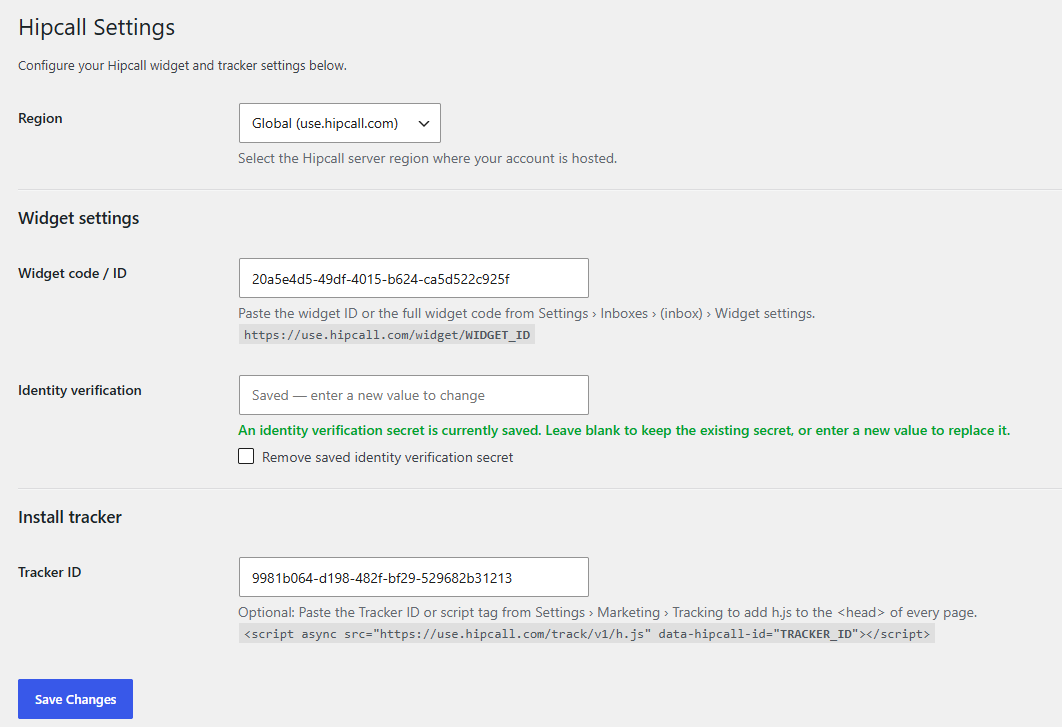
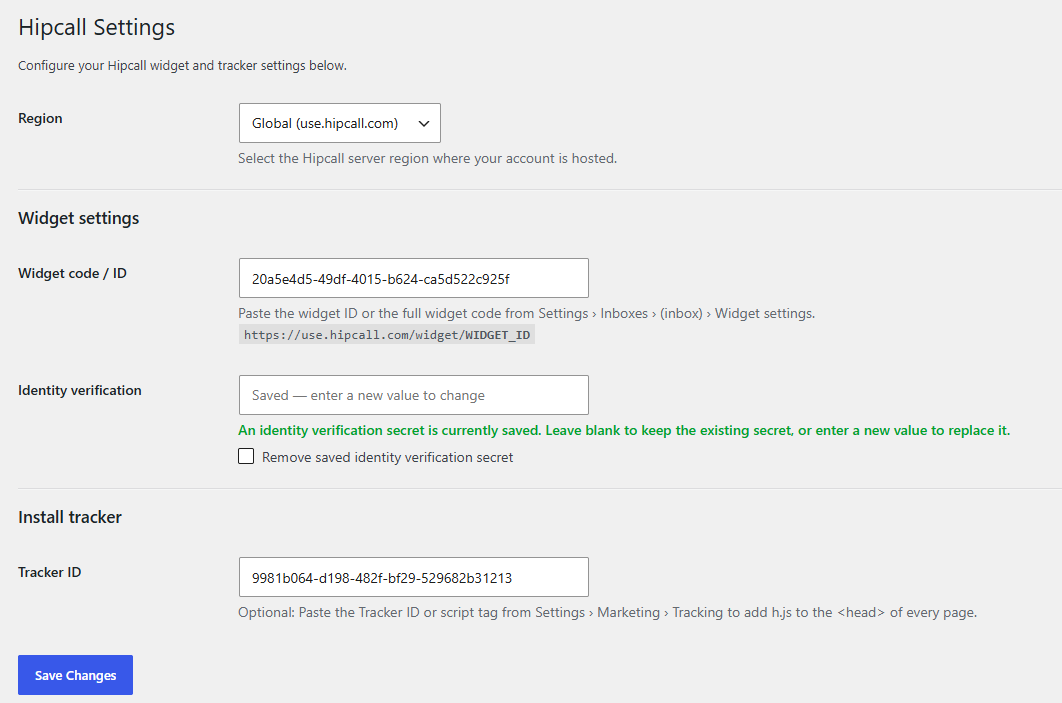
Remove region-specific tracker script example from settings page
The <script> example under Tracker ID showed the saved region's URL, so
it did not change when another region was selected in the form. The
example is removed; the field description already explains that the
Tracker ID or the full script tag can be pasted.

- Regression test for the settings page.
- screenshot-1.png updated to match.
- Changelog entry for 1.1.0.

Claude-Session: https://claude.ai/code/session_01X3ZTDhtrpEaJormxFtXAce

diff --git a/tests/phpunit/tests/settings/settingsPage.php b/tests/phpunit/tests/settings/settingsPage.php
@@ -45,6 +45,20 @@ class Tests_Settings_SettingsPage extends WP_UnitTestCase {
 	}
 
 	/**
+	 * The tracker <script> example did not follow the region selected in the form, so it was removed.
+	 *
+	 * @covers ::hipcall_settings_page_html
+	 */
+	public function test_settings_page_should_not_show_a_region_specific_tracker_snippet() {
+		wp_set_current_user( self::factory()->user->create( array( 'role' => 'administrator' ) ) );
+
+		$html = get_echo( 'hipcall_settings_page_html' );
+
+		$this->assertStringContainsString( 'name="hipcall_tracker_id"', $html, 'The Tracker ID field should be rendered.' );
+		$this->assertStringNotContainsString( '/track/v1/h.js', $html, 'No hard-coded tracker URL should be shown.' );
+	}
+
+	/**
 	 * @covers ::hipcall_settings_page_html
 	 */
 	public function test_settings_page_should_render_nothing_for_users_without_manage_options() {

diff --git a/includes/class-hipcall-settings.php b/includes/class-hipcall-settings.php
@@ -296,8 +296,7 @@ function hipcall_settings_page_html() {
 								placeholder="<?php echo esc_attr__( 'e.g. e61f8fe3-3eea-44d0-bd1f-416c143c710c', 'hipcall' ); ?>"
 							/>
 							<p class="description">
-								<?php esc_html_e( 'Optional: Paste the Tracker ID or script tag from Settings › Marketing › Tracking to add h.js to the <head> of every page.', 'hipcall' ); ?><br />
-								<code>&lt;script async src="<?php echo esc_html( $base_url ); ?>/track/v1/h.js" data-hipcall-id="<strong>TRACKER_ID</strong>"&gt;&lt;/script&gt;</code>
+								<?php esc_html_e( 'Optional: Paste the Tracker ID or script tag from Settings › Marketing › Tracking to add h.js to the <head> of every page.', 'hipcall' ); ?>
 							</p>
 						</td>
 					</tr>
